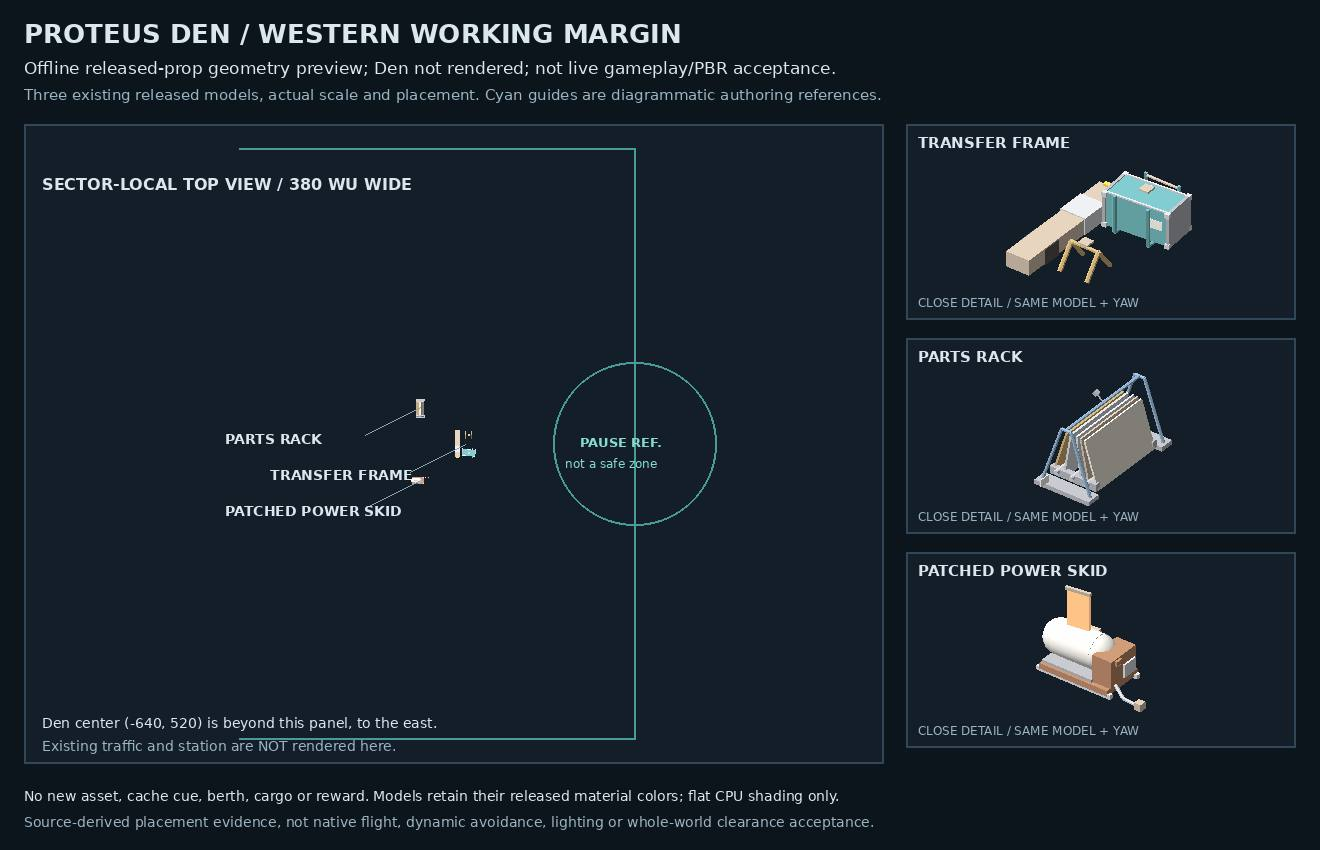
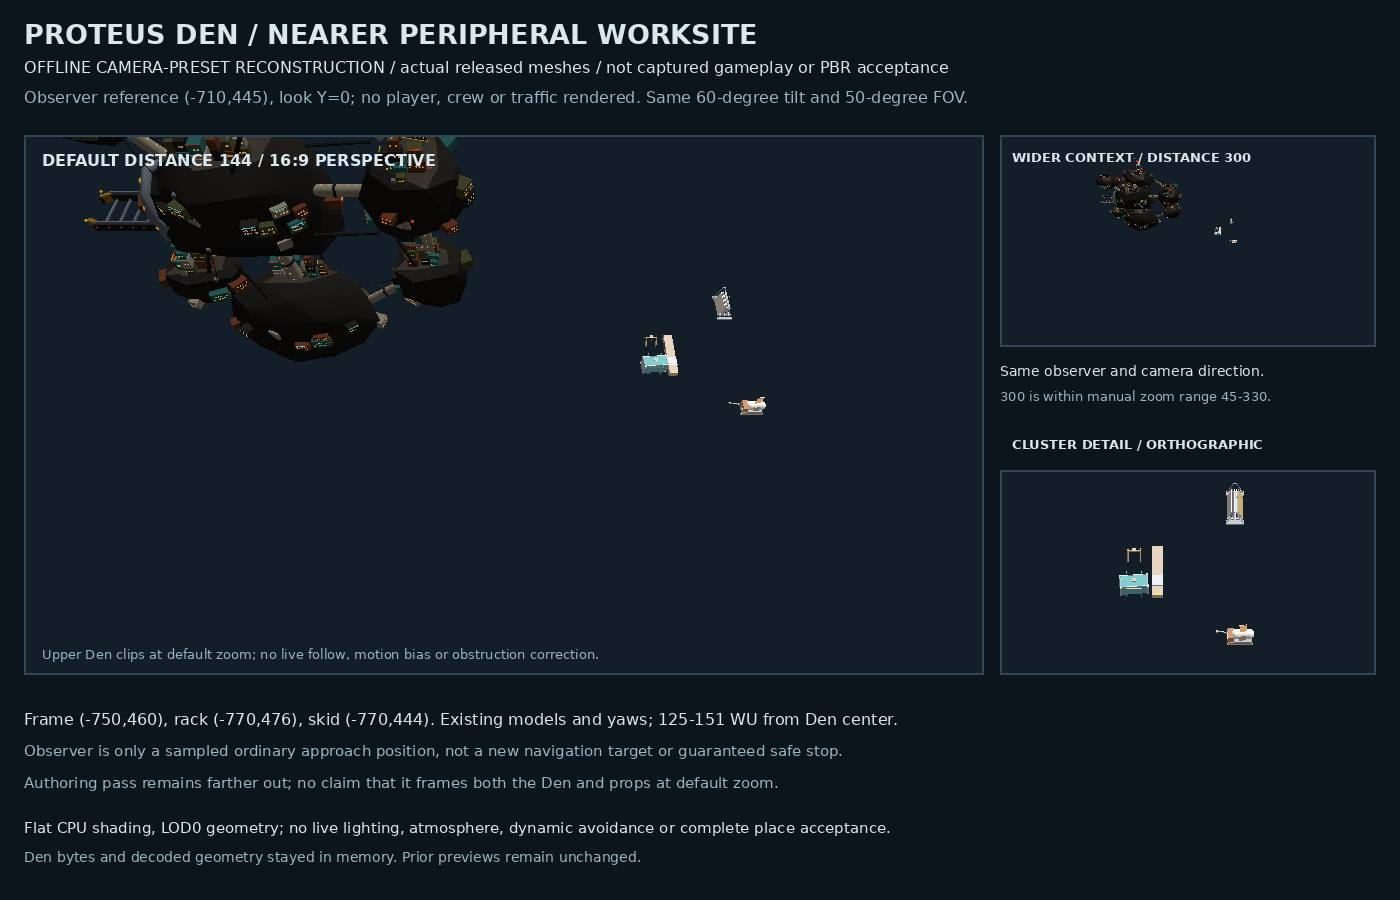
refine(world): bring Proteus working props beside the Den

diff --git a/src/data/everydaySpaceKitDressing.js b/src/data/everydaySpaceKitDressing.js
@@ -254,12 +254,13 @@ function finitePos(value) {
 
 // Proteus's existing Den work gets a small western service margin instead of
 // random kit scatter. This is dressing, not a berth, cache clue or safe zone.
-// The runner/picket keep their real routes east of this margin; the seam crew
+// The runner/picket keep their real routes clear of this margin; the seam crew
 // and hauler remain at the distant field, not invented visitors to the Den.
 export const PROTEUS_DEN_WORKING_MARGIN = Object.freeze({
   stationId: 'station_proteus',
   stationPos: Object.freeze({ x: -640, z: 520 }),
-  // Authoring references only. No navigation target, trigger or sanctuary.
+  // Outer authoring references only, not a promise of shared camera visibility.
+  // No navigation target, trigger or sanctuary.
   stop: Object.freeze({ x: -850, z: 600, clearRadius: 36 }),
   pass: Object.freeze([
     Object.freeze({ x: -1025, z: 470 }), Object.freeze({ x: -850, z: 470 }),
@@ -267,9 +268,9 @@ export const PROTEUS_DEN_WORKING_MARGIN = Object.freeze({
     Object.freeze({ x: -1025, z: 730 }),
   ]),
   props: Object.freeze([
-    Object.freeze({ placeId: 'place_illicit_transfer_frame', x: -925, z: 600, rot: 0 }),
-    Object.freeze({ placeId: 'place_parts_rack', x: -945, z: 616, rot: Math.PI / 2 }),
-    Object.freeze({ placeId: 'place_power_skid_patched', x: -945, z: 584, rot: 0 }),
+    Object.freeze({ placeId: 'place_illicit_transfer_frame', x: -750, z: 460, rot: 0 }),
+    Object.freeze({ placeId: 'place_parts_rack', x: -770, z: 476, rot: Math.PI / 2 }),
+    Object.freeze({ placeId: 'place_power_skid_patched', x: -770, z: 444, rot: 0 }),
   ]),
 });
 

diff --git a/design/program/world-experience-2026-10-23/PROTEUS_DEN_WORKING_MARGIN.md b/design/program/world-experience-2026-10-23/PROTEUS_DEN_WORKING_MARGIN.md
@@ -8,41 +8,42 @@ At the authored Den position (-640, 520), the world X/Z positions and yaw radian
 
 | Model / placement identity | X | Z | Yaw |
 | --- | ---: | ---: | ---: |
-| `place_illicit_transfer_frame` | -925 | 600 | 0 |
-| `place_parts_rack` | -945 | 616 | π/2 |
-| `place_power_skid_patched` | -945 | 584 | 0 |
+| `place_illicit_transfer_frame` | -750 | 460 | 0 |
+| `place_parts_rack` | -770 | 476 | π/2 |
+| `place_power_skid_patched` | -770 | 444 | 0 |
 
-The pause reference is (-850, 600), radius 36. The reference pass runs (-1025, 470) → (-850, 470) → (-850, 600) → (-850, 730) → (-1025, 730). These are authoring references, not navigation targets or gameplay triggers. There is no hidden-cache cue, new actor, cargo, reward, berth, docking/trust change or sanctuary. Existing traffic routes are unchanged; no crew operation or distant seam visibility is claimed.
+The pause reference is (-850, 600), radius 36. The reference pass runs (-1025, 470) → (-850, 470) → (-850, 600) → (-850, 730) → (-1025, 730). These outer references do not promise that the Den and props are jointly visible at the default camera distance. They are authoring references, not navigation targets or gameplay triggers. There is no hidden-cache cue, new actor, cargo, reward, berth, docking/trust change or sanctuary. Existing traffic routes are unchanged; no crew operation or distant seam visibility is claimed.
 
 The seed-only warm mapper preserves station identity alongside position so the authored recipe can match runtime. Non-Proteus placement and random-number consumption remain unchanged. Triton POI warm enumeration is unchanged and outside this fix.
 
 ## Checks and qualification
 
-- Focused gate: `npm run check:proteus-den-working-margin` runs exactly `node --test test/proteus-den-working-margin.test.mjs`, once in `scripts.check`. Writer and independent final runs each passed 10/10.
-- Writer compared 1,728 non-Proteus placement/RNG cases. Independent review compared 576 non-Proteus cases and 180 generic kit/wreck warm cases.
+- Focused gate: `npm run check:proteus-den-working-margin` runs exactly `node --test test/proteus-den-working-margin.test.mjs`, once in `scripts.check`. Writer and independent final runs each passed 11/11.
+- Writer compared 1,728 non-Proteus placement/RNG cases across three 576-case owner variants (public master, the separately published sibling helper, and the separate Archive candidate). Independent review compared 576 non-Proteus cases and 180 generic kit/wreck warm cases.
 - Focused coverage includes unique/missing/ambiguous/translated anchors, RNG independence, census-envelope spacing, unchanged authored route references, scope invariants, and seeded warm recipe/stub parity.
-- Conservative pairwise prop gaps: 12.76, 13.08 and 22.32 WU. Minimum pause/pass residual using a 48-WU representative hull: 19.15 WU. These calculations do not establish passage between props or generated-world collision closure.
+- Conservative pairwise prop gaps: 12.76, 13.08 and 22.32 WU. The outer pause/pass retains clearance for a 48-WU representative hull. The nearer layout also checks the Den's centered visual and fixed-offset recipe envelopes, and every authored join for the existing runner/picket using their measured public smuggler/pirate hull envelopes. These calculations do not establish passage between props, native avoidance, route overshoot, attachments, unmeasured clamp volumes or generated-world collision closure.
 - Fresh public base: `3095a835eb3dbda178d359bbb0541e3ee6124f4c`. Exact inverse edits restore both source bases and package bytes, including original EOF/CRLF formatting. Additive compatibility was checked separately; no sibling PR or unpublished Archive changes are included.
 - Actual native avoidance, full Save/Continue execution, hostile-traffic interaction, whole-world collision closure and live visual readability remain unverified. Draft source acceptance is not merge, deployment or flight acceptance.
 
 ## Preview and provenance
 
-![Offline compact released-prop geometry preview](proteus-den-working-margin.jpg)
+![Offline nearer-layout camera-preset reconstruction](proteus-den-working-margin.jpg)
 
-This is a flat CPU-shaded geometry preview of the actual three released GLBs at the authored transforms, with unit scale and X/Z recentering. The Den and traffic are absent. Diagrammatic pause/pass references are not rendered gameplay. This is not live gameplay, PBR or whole-scene visual acceptance.
+This flat CPU-shaded, fixed-pose camera-preset reconstruction uses the actual released medium Den and three prop GLBs. It applies the authored transforms, unit prop scale, the medium Den mount scale and visual X/Z recentering. The default 144-distance panel intentionally shows the partial Den crop; the wider 300-distance context panel is a separate view, not proof of default full framing. Traffic, crew, atmosphere, native flight, camera follow and dynamic camera corrections are absent. The observer at (-710, 445) is a source-envelope sample with an 18-WU Drifter hull reference, not a navigation target. This is not captured gameplay, PBR, full-framing or whole-scene acceptance.
 
 Sources are under `assets/ships/release/parts/places/` at the public base above:
 
 | Source GLB | Bytes | Git blob |
 | --- | ---: | --- |
+| `place_station_blackmarket.glb` | 1984572 | `d16714490c88bb98ca2fcd4bbc6f7988ceee3cbc` |
 | `place_illicit_transfer_frame.glb` | 26248 | `5bdcc07dfe26ef99f9e8ccba942babcc13f1e806` |
 | `place_parts_rack.glb` | 25328 | `456610b1ac2430617ef9b2c1611caeaedfcdd3d1` |
 | `place_power_skid_patched.glb` | 25568 | `7d487e7886d5d0e045ab84e55dff314d07cf3249` |
 
 Final SHA-256 receipts:
 
[8 lines of base64/hex data omitted]
